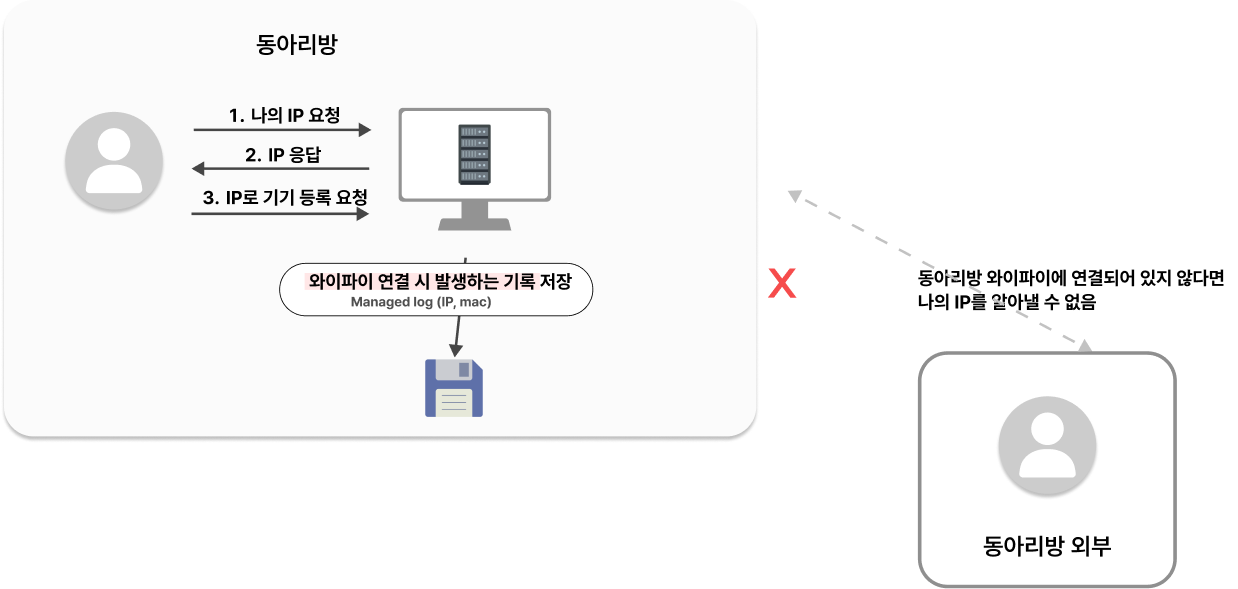
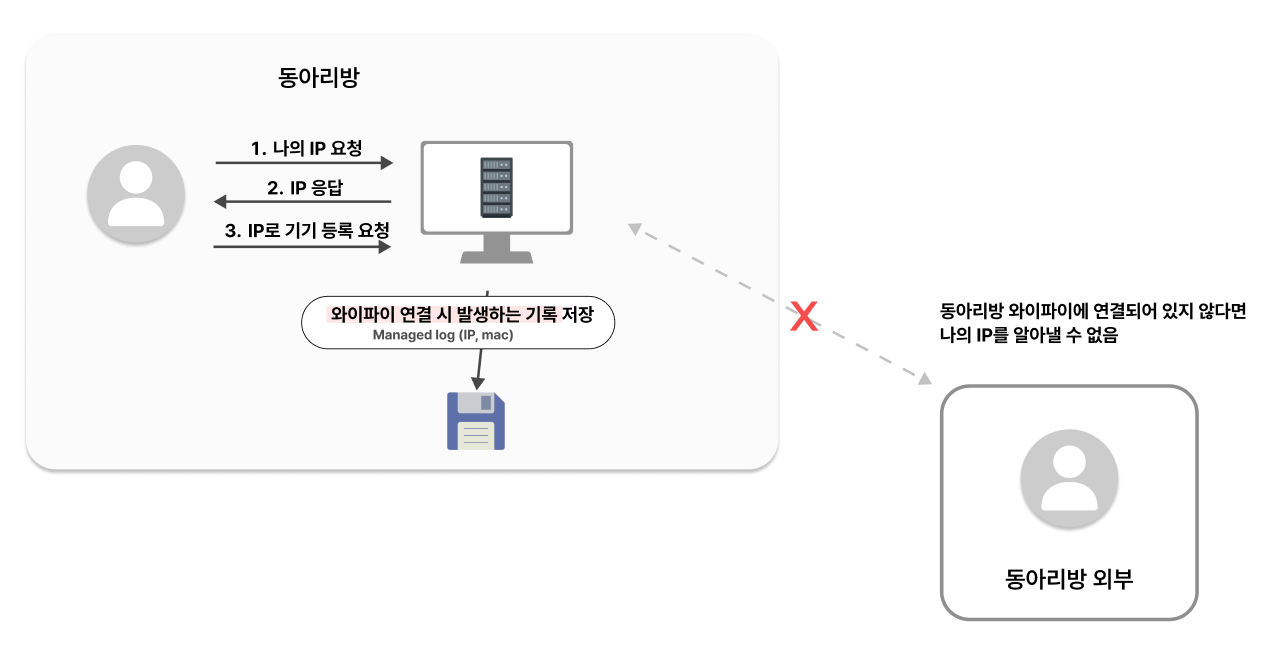
refactor: project detail 이미지 수정

diff --git a/v3.1/src/portfolio/project/component/ProjectDetail.jsx b/v3.1/src/portfolio/project/component/ProjectDetail.jsx
@@ -13,7 +13,7 @@ const ProjectDetail = ({ project, idx }) => {
   return (
     <div className='container !flex !flex-col justify-between gap-[3dvw]'>
       <ProjectHeader project={project} />
-      <div className='flex flex-row gap-[1dvw]'>
+      <div className='flex flex-row gap-[3dvw]'>
         <div className='flex flex-col gap-[1dvw]'>
           <div className="project-name !text-[1.5dvw] !font-light">{updatedProject.title}</div>
           <div className='!text-[1dvw] !font-light !font-[Manrope] whitespace-pre-line'>
@@ -22,7 +22,7 @@ const ProjectDetail = ({ project, idx }) => {
         </div>
         <div>
           {detail[idx].imageSrc ?
-            <img className='w-[50dvw]' src={`${import.meta.env.BASE_URL}${detail[idx].imageSrc}`}></img>
+            <img className='w-[40dvw] rounded-xl' src={`${import.meta.env.BASE_URL}${detail[idx].imageSrc}`}></img>
             : ""}
         </div>
       </div>
